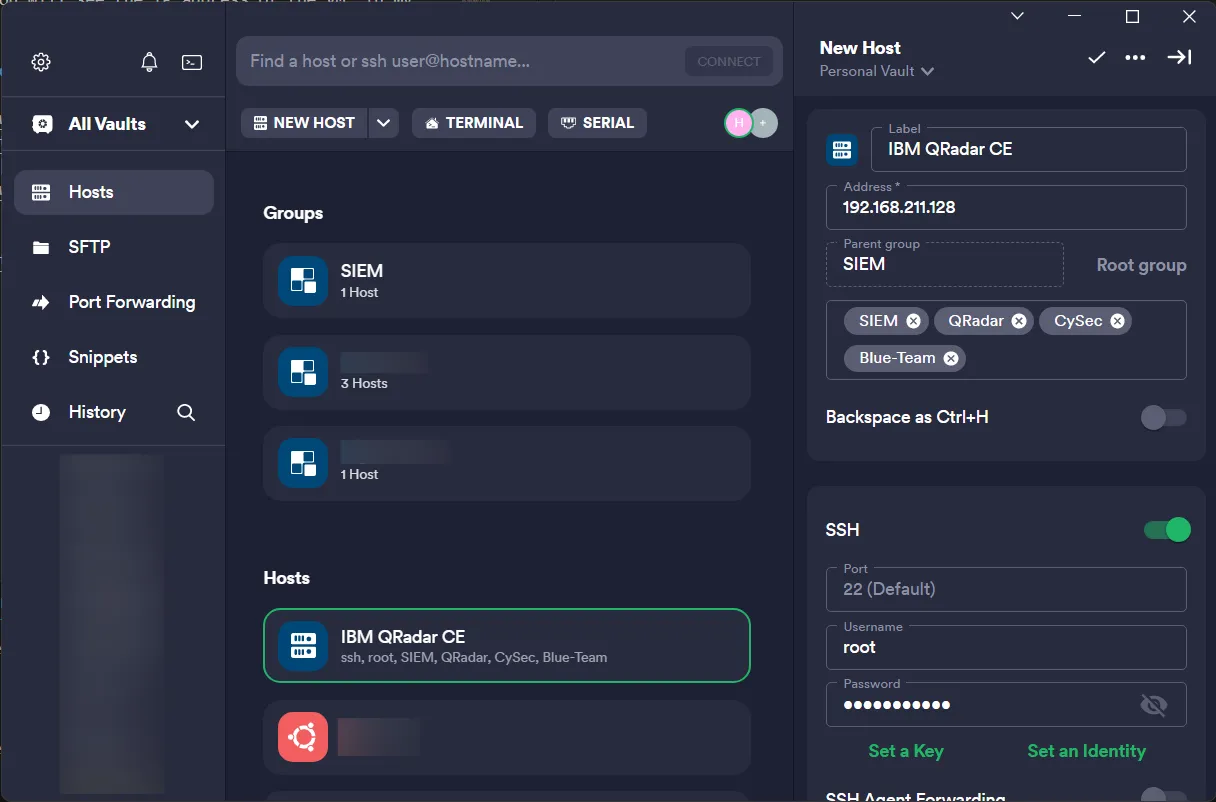
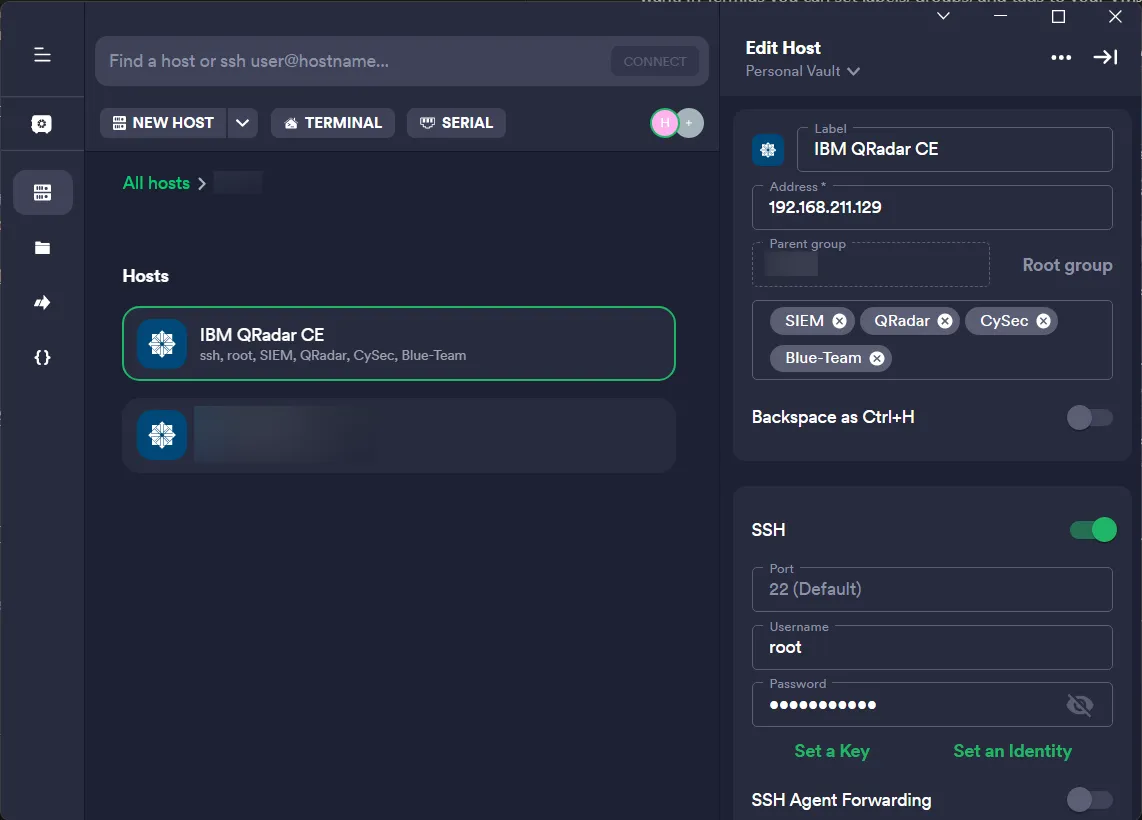
update(blog): How to setup IBM QRadar CE on VMware Workstation
- Update IP address
- Update Flow Sources configuration
- Add Log Activity SS & Update Network Activity SS
- Add references

diff --git a/content/blog/qradar-setup-vmware/index.md b/content/blog/qradar-setup-vmware/index.md
@@ -214,7 +214,7 @@ Type the password you want to use and press **Enter**
 
 ![Type ip addr or ip a to see the IP address of the VM](./images/step19.webp#center "Type ip addr or ip a to see the IP address of the VM")
 
-Under the `ens33` interface, you will see the IP address of the VM. In my case, it's `192.168.211.128`.
+Under the `ens33` interface, you will see the IP address of the VM. In my case, it's `192.168.211.129`
 
 > **Note:** The IP address of the VM will be different for everyone.
 
@@ -228,9 +228,9 @@ In my case, I use [Termius](https://termius.com/).
 
 ![Open Termius and click New Host](./images/step20.webp#center "Open Termius and click New Host")
 
-- Set the hostname to the IP address of the VM which is `192.168.211.128` and set the username to `root` and type the password you set earlier. You can also set the VM details if you want. In Termius you can set labels, groups, and tags to your VMs.
+- Set the hostname to the IP address of the VM which is `192.168.211.129` and set the username to `root` and type the password you set earlier. You can also set the VM details if you want. In Termius you can set labels, groups, and tags to your VMs.
 
-![setup hostname](./images/step20-2.webp#center "setup hostname")
+![setup host](./images/step20-2.webp#center "setup host")
 
 - Connect to the VM
 
@@ -303,7 +303,7 @@ This command seems to be updating license files for different components or serv
 
 ### 23. Open the QRadar CE web interface in your browser
 
-Open your browser and type the IP address of the VM. In my case, it's `https://192.168.211.128`
+Open your browser and type the IP address of the VM. In my case, it's `https://192.168.211.129`
 
 > **Note:** Don't forget to use `https://` instead of `http://` because the QRadar CE web interface uses HTTPS.
 
@@ -319,7 +319,7 @@ Open your browser and type the IP address of the VM. In my case, it's `https://1
 
 ![Accept the EULA](./images/step23-3.webp#center "Accept the EULA")
 
-### 24. Configure the Network Activity
+### 24. Configure the Flow Sources
 
 - Click the **breadcrumb**
 
@@ -357,7 +357,13 @@ Open your browser and type the IP address of the VM. In my case, it's `https://1
 
 ### 26. Check the Network Activity tab, and if there are any logs, it means the QRadar CE is working
 
-![Check the Network Activity tab, and if there are any logs, it means the QRadar CE is working](./images/step26.webp#center "Check the Network Activity tab, and if there are any logs, it means the QRadar CE is working")
+- **Log Activity**
+
+![Log Activity](./images/step26.webp#center "Log Activity")
+
+**Network Activity**
+
+![Network Activity](./images/step26-2.webp#center "Network Activity")
 
 ## Congratulations! You have successfully setup IBM QRadar CE on VMware Workstation
 
@@ -370,4 +376,5 @@ Open your browser and type the IP address of the VM. In my case, it's `https://1
 - https://www.ibm.com/docs/en/qradar-on-cloud?topic=support-common-problems
 - https://www.ibm.com/docs/en/qsip
 - http://ftpmirror.your.org/pub/misc/ftp.software.ibm.com/software/security/products/qradar/documents/7.2.4/QLM/EN/b_qradar_system_notifications.pdf
+- [Tutorial: QRadar CE SIEM - Installation and Configuration (Complete Steps) by Semi Yulianto](https://youtu.be/DCd5f4VFDdk?si=ou0iQCT50kZdDBBM)
 - Guide/learning material from [Infinite Learning HCAI Program](https://kampusmerdeka.kemdikbud.go.id/program/studi-independen/browse/863c3409-8b4e-4c96-9edd-71ee61e9fc41/7a22d773-4ea0-11ed-a45a-c2cca2f5088a) (I can't share the material/content directly, because it's confidential and belong to [Infinite Learning](https://www.infinitelearning.id/) and IBM Academy)
